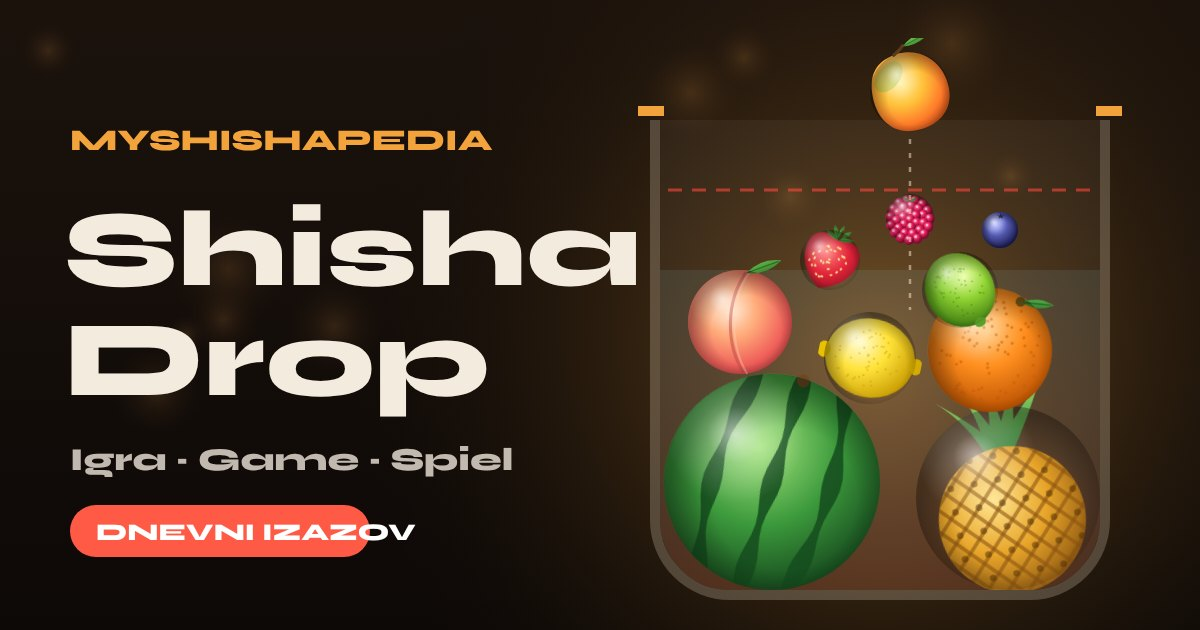
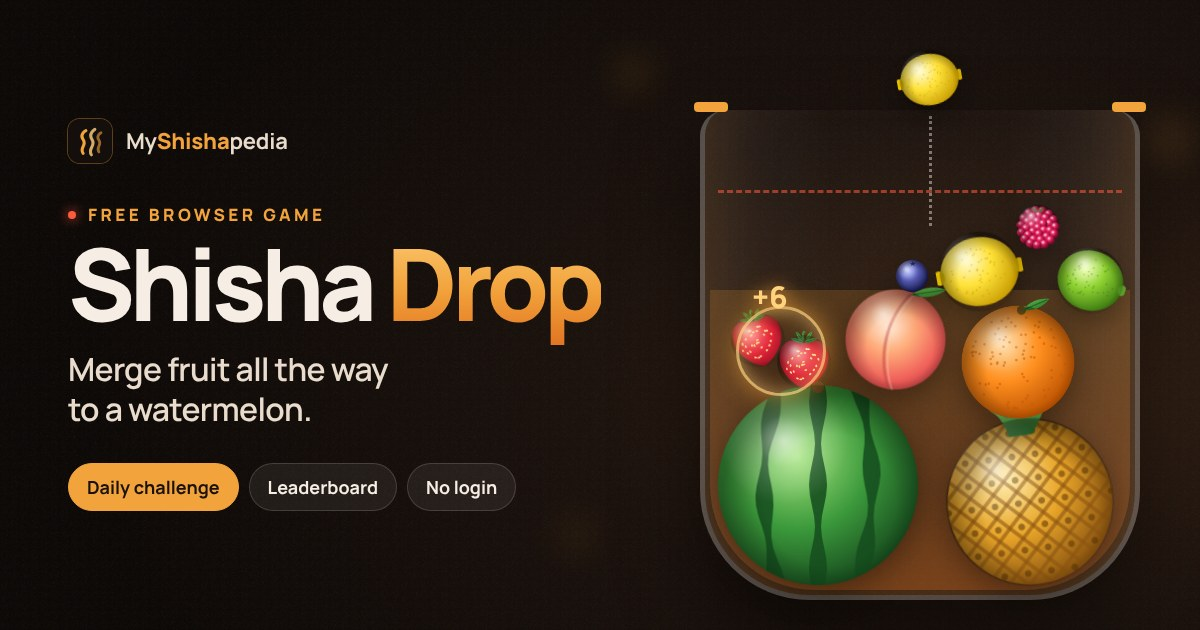
Igra: nova slika za dijeljenje linka, posebna za svaki jezik

diff --git a/js/views.js b/js/views.js
@@ -2442,7 +2442,7 @@
         out.main = V.pageGame(crumbs);
         out.title = t('meta.gameTitle');
         out.description = t('meta.gameDescription');
-        out.ogImage = '/og-game.jpg';
+        out.ogImage = '/og-game-' + MSP.lang + '.jpg';
         out.ogAlt = 'Shisha Drop: ' + t('nav.gameSub');
         break;
       case 'quiz':
